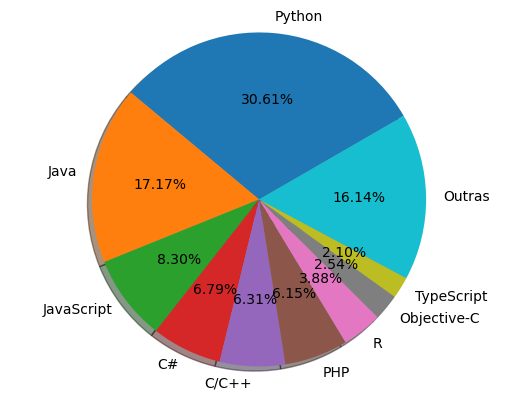
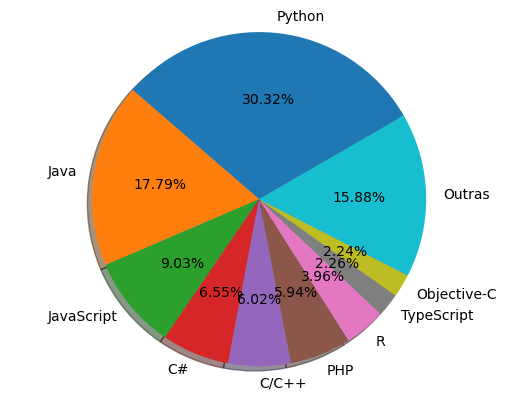
Build site at 2021-07-02 06:00:03 UTC

diff --git a/material/sobre/01-introdução.md b/material/sobre/01-introdução.md
@@ -4,7 +4,7 @@ parent: sobre
 nav_order: 0
 tags: [introdução, pypl, python, popularity]
 permalink: /popularidade/
-timestamp: '14/06/21'
+timestamp: '02/07/21'
 ---
 
 Python é a linguagem mais popular e a que mais cresce mundialmente
@@ -18,34 +18,34 @@ O **índice PYPL** (*PopularitY of Programming Language*) é obtido analisando a
 
 | Posição	| Linguagem |	Fatia (%)	| Tendência (%) |
 |:-------:|:--------- |:-----:|:---------:|
-| 1 | Python |          30.6  | -1.1  |
-| 2 | Java |          17.17  | -0.1  |
-| 3 | JavaScript |          8.3  | +0.3  |
-| 4 | C# |          6.79  | -0.0  |
-| 5 | C/C++ |          6.31  | +0.6  |
-| 6 | PHP |          6.15  | +0.2  |
-| 7 | R |          3.88  | -0.1  |
-| 8 | Objective-C |          2.54  | +0.1  |
-| 9 | TypeScript |          2.1  | +0.2  |
-| 10 | Swift |          1.91  | -0.3  |
-| 11 | Kotlin |          1.74  | +0.2  |
-| 12 | Matlab |          1.52  | -0.3  |
-| 13 | Go |          1.36  | -0.0  |
-| 14 | VBA |          1.21  | -0.1  |
-| 15 | Ruby |          1.17  | -0.0  |
-| 16 | Rust |          1.16  | +0.3  |
-| 17 | Ada |          0.77  | +0.4  |
-| 18 | Scala |          0.74  | -0.3  |
-| 19 | Visual Basic |          0.69  | -0.2  |
-| 20 | Dart |          0.62  | +0.1  |
-| 21 | Abap |          0.6  | +0.1  |
-| 22 | Lua |          0.52  | +0.1  |
-| 23 | Julia |          0.47  | +0.1  |
-| 24 | Groovy |          0.43  | -0.0  |
-| 25 | Perl |          0.39  | -0.0  |
-| 26 | Cobol |          0.33  | -0.1  |
-| 27 | Delphi/Pascal |          0.27  | +0.0  |
+| 1 | Python |          30.32  | -1.8  |
+| 2 | Java |          17.79  | +1.0  |
+| 3 | JavaScript |          9.03  | +1.1  |
+| 4 | C# |          6.55  | -0.2  |
+| 5 | C/C++ |          6.02  | +0.3  |
+| 6 | PHP |          5.94  | +0.0  |
+| 7 | R |          3.96  | -0.0  |
+| 8 | TypeScript |          2.26  | +0.3  |
+| 9 | Objective-C |          2.24  | -0.3  |
+| 10 | Swift |          1.78  | -0.4  |
+| 11 | Kotlin |          1.75  | +0.3  |
+| 12 | Matlab |          1.72  | -0.2  |
+| 13 | VBA |          1.38  | +0.1  |
+| 14 | Go |          1.28  | -0.1  |
+| 15 | Rust |          1.26  | +0.3  |
+| 16 | Ruby |          1.01  | -0.2  |
+| 17 | Visual Basic |          0.76  | -0.1  |
+| 18 | Ada |          0.74  | +0.3  |
+| 19 | Scala |          0.72  | -0.3  |
+| 20 | Dart |          0.61  | +0.1  |
+| 21 | Lua |          0.54  | +0.1  |
+| 22 | Abap |          0.44  | -0.0  |
+| 23 | Perl |          0.38  | -0.0  |
+| 24 | Julia |          0.36  | -0.0  |
+| 25 | Groovy |          0.34  | -0.1  |
+| 26 | Cobol |          0.3  | -0.1  |
+| 27 | Delphi/Pascal |          0.27  | -0.0  |
 | 28 | Haskell |          0.24  | -0.0  |
 
-***Mundialmente em junho de 2021, comparado a um ano antes***
+***Mundialmente em julho de 2021, comparado a um ano antes***
 {: .small}
